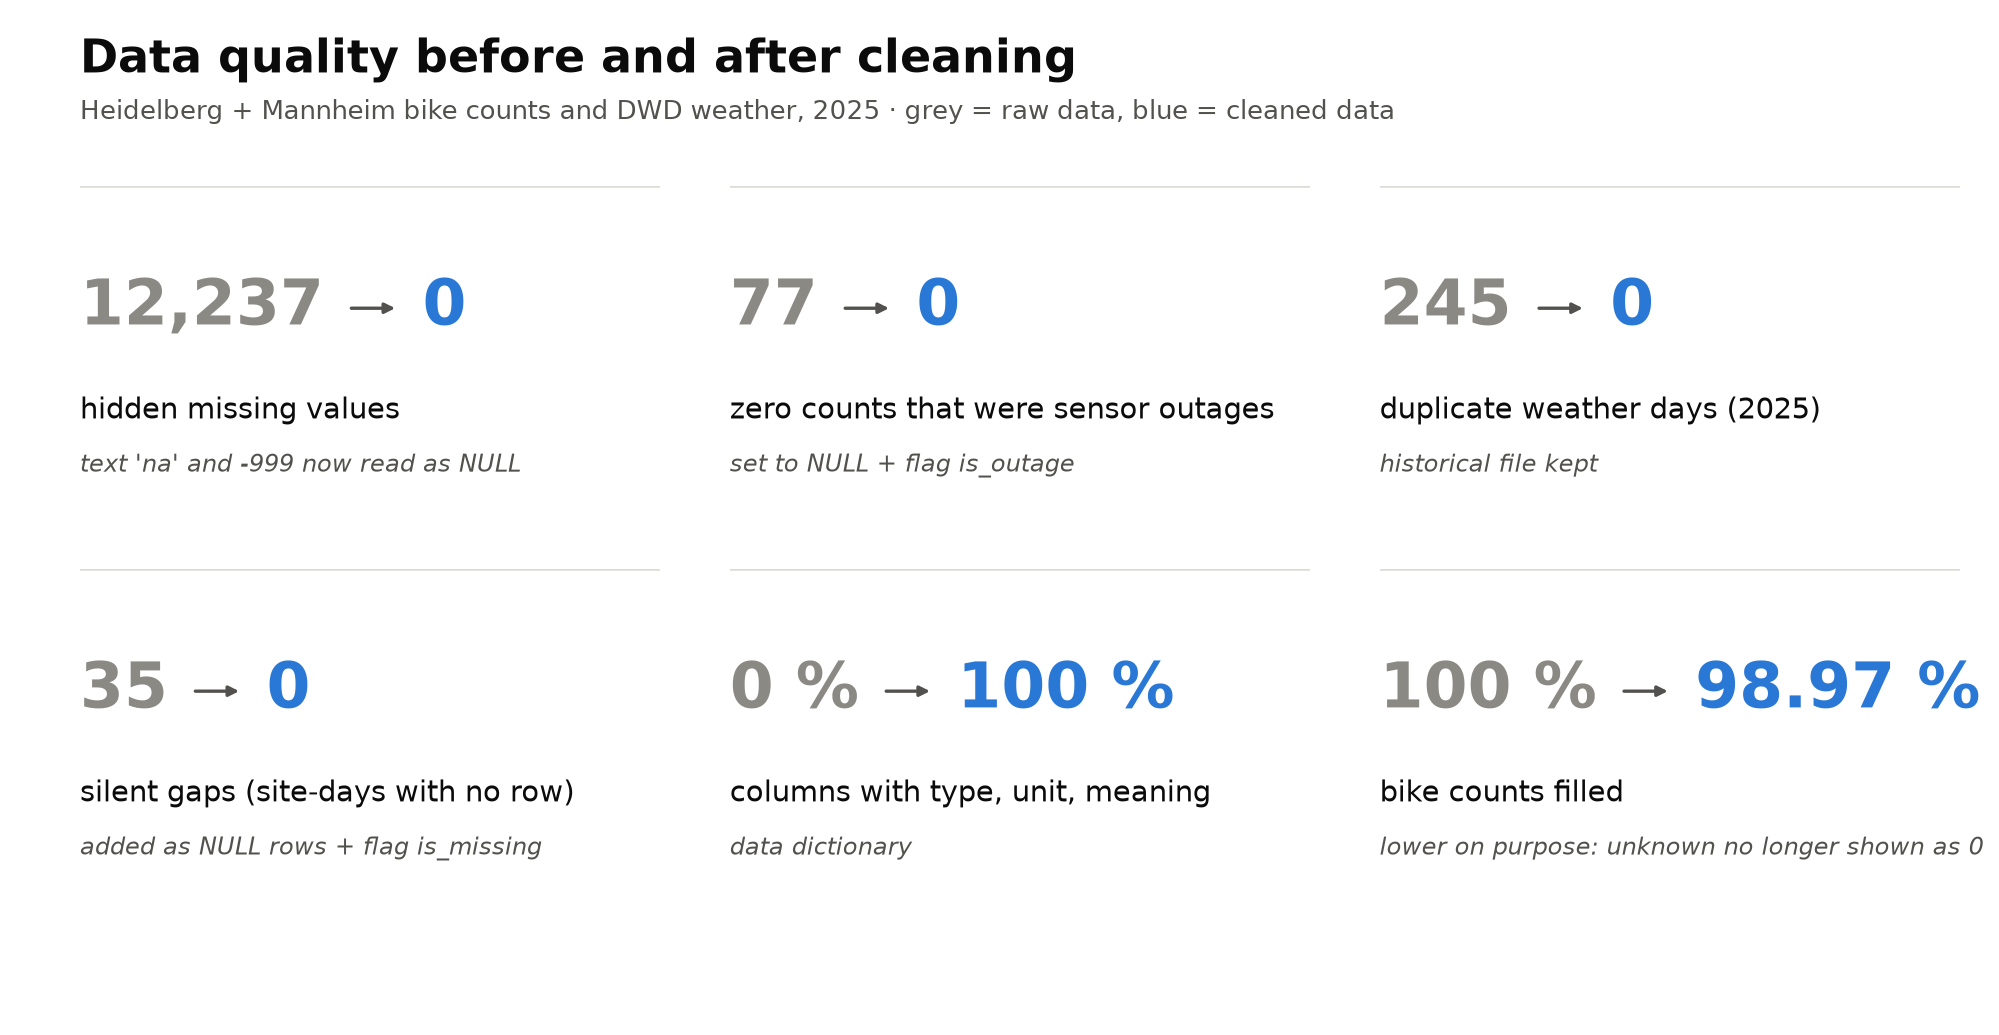
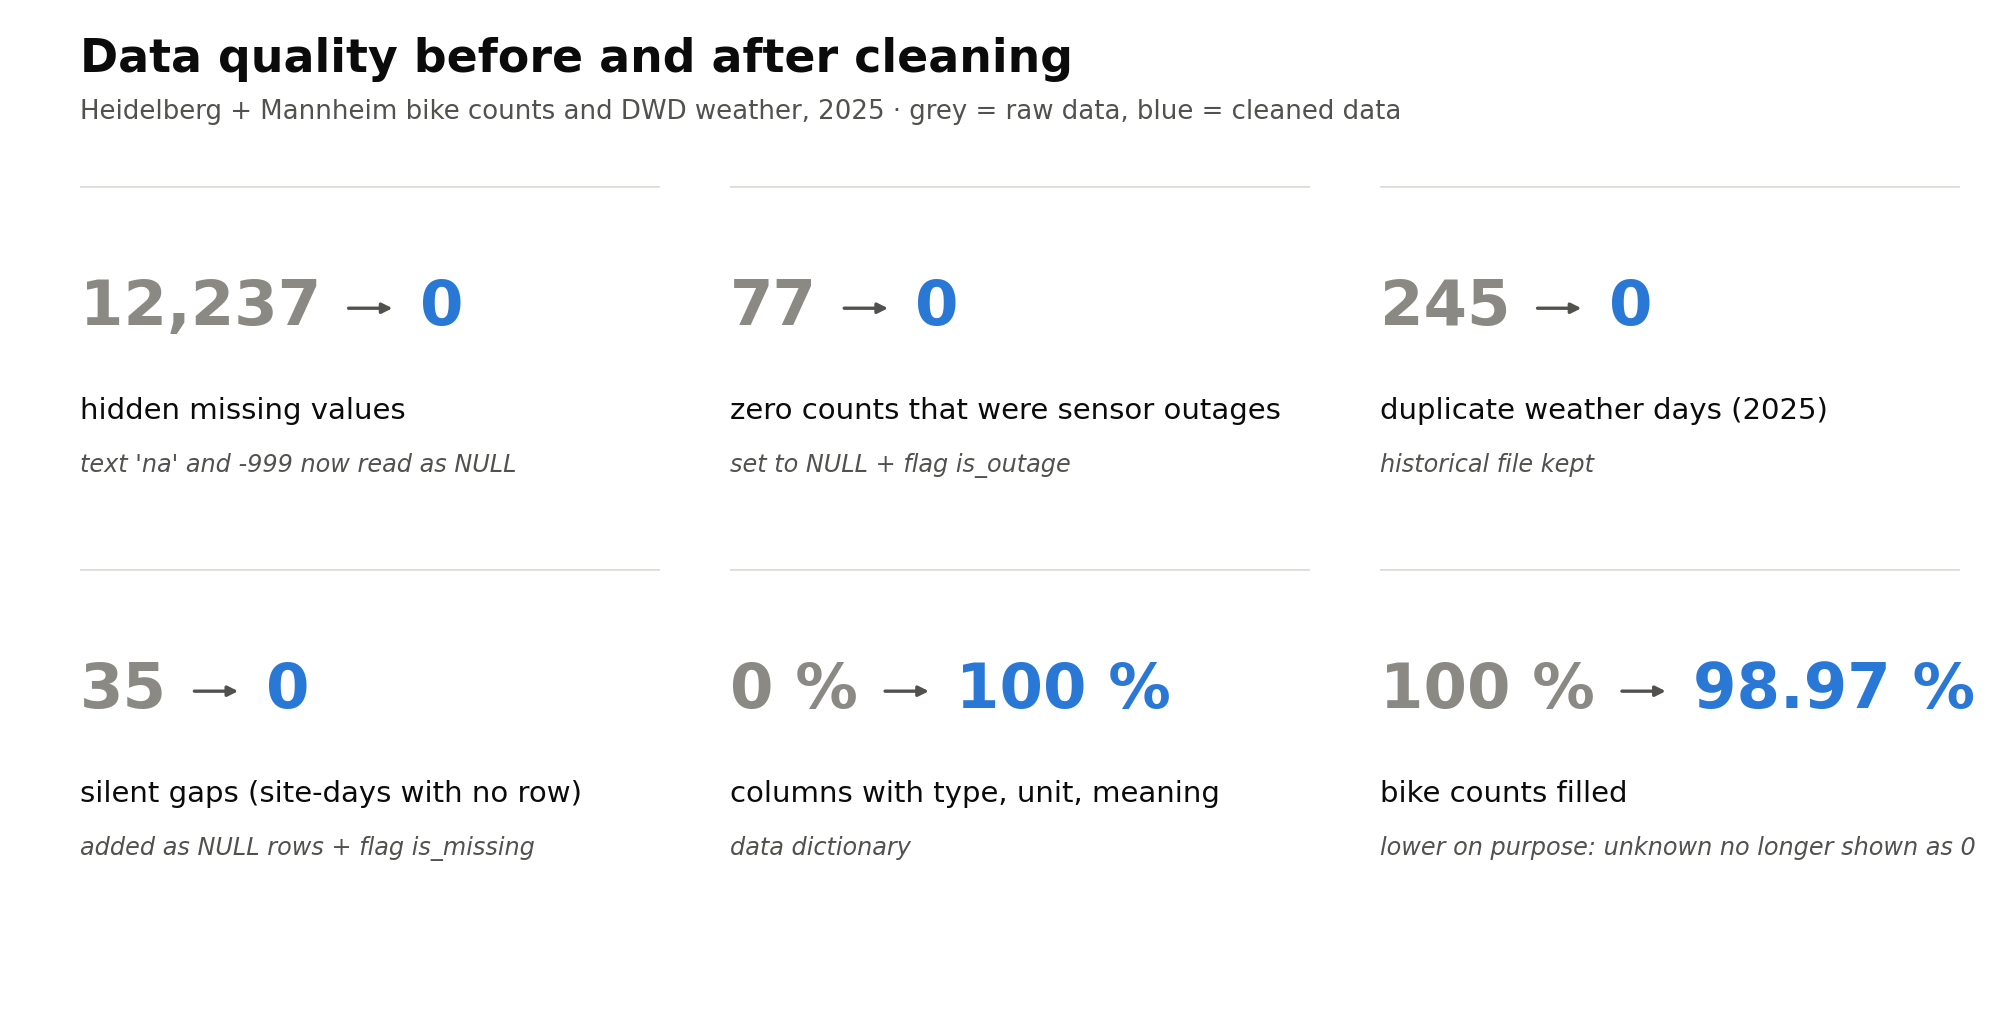
update profiling and quality documentation

diff --git a/docs/profiling_report.md b/docs/profiling_report.md
@@ -1,6 +1,6 @@
 # Profiling report — raw data
 
-Generated by `src/profiling.py` on 02 Nov 2026 12:36. Raw files are not changed.
+Generated by `src/profiling.py` on 08 Nov 2026 10:19. Raw files are not changed.
 
 ## Key findings
 
@@ -49,6 +49,8 @@ Copy the agreed rules into `docs/cleaning_rules.md`.
 | Empty / negative counts | 0 | Missing value or error | Set to NULL |
 | Dates outside 2025 | 0 | Time zone (UTC vs Berlin) | Convert to Europe/Berlin date first |
 | Sites with changing coordinates | 0 | Counter moved / reconfigured | Use one fixed location per site in sites table |
+| Text 'na' used instead of an empty value | 12,225 cells (366 rows without direction counts) | Export writes 'na' when a channel does not exist | Read 'na' as NULL |
+| Inconsistent site names | 4 names | Typed by hand: trailing dots, typos, mixed spelling | Strip trailing dots/spaces; keep site_id as the key |
 | All columns stored as text | 17 | CSV export | Cast to int / float / date |
 | Weather -999 codes | see weather table | DWD code for 'no value' | Replace -999 with NULL |
 | Weather files overlap | 245 days (0 with different values) | historical + recent both cover the same dates | Keep historical (quality-checked), recent only for later dates |
@@ -68,13 +70,13 @@ Copy the agreed rules into `docs/cleaning_rules.md`.
 | latitude | text | 0.0 | 30 | 100.0 | 49.3886384101731 | 49.51437950394198 | 49.40913 |
 | timezone | text | 0.0 | 1 | 0.0 |  |  | (UTC+01:00) Europe/Paris DST |
 | iso_timestamp | text | 0.0 | 365 | 0.0 |  |  | 2025-01-01T00:00:00+01:00 |
-| channels_in | text | 0.0 | 2978 | 96.62 | 0.0 | 9045.0 | 385 |
-| channels_out | text | 0.0 | 3053 | 96.63 | 0.0 | 7837.0 | 453 |
-| channels_unknown | text | 0.0 | 292 | 3.37 | 78.0 | 1341.0 | na |
+| channels_in | text | 3.38 | 2978 | 100.0 | 0.0 | 9045.0 | 385 |
+| channels_out | text | 3.37 | 3053 | 100.0 | 0.0 | 7837.0 | 453 |
+| channels_unknown | text | 96.63 | 292 | 100.0 | 78.0 | 1341.0 | na |
 | channels_all | text | 0.0 | 4450 | 100.0 | 0 | 16792 | 838 |
-| site_temperature | text | 0.0 | 63 | 96.86 | -0.5 | 30.0 | 3.0 |
-| site_rain_accumulation | text | 0.0 | 103 | 96.86 | 0.0 | 43.0 | 0.0 |
-| site_snow_accumulation | text | 0.0 | 15 | 96.86 | 0.0 | 6.6 | 0.0 |
+| site_temperature | text | 3.14 | 63 | 100.0 | -0.5 | 30.0 | 3.0 |
+| site_rain_accumulation | text | 3.14 | 103 | 100.0 | 0.0 | 43.0 | 0.0 |
+| site_snow_accumulation | text | 3.14 | 15 | 100.0 | 0.0 | 6.6 | 0.0 |
 
 ## Coverage per counter site
 
